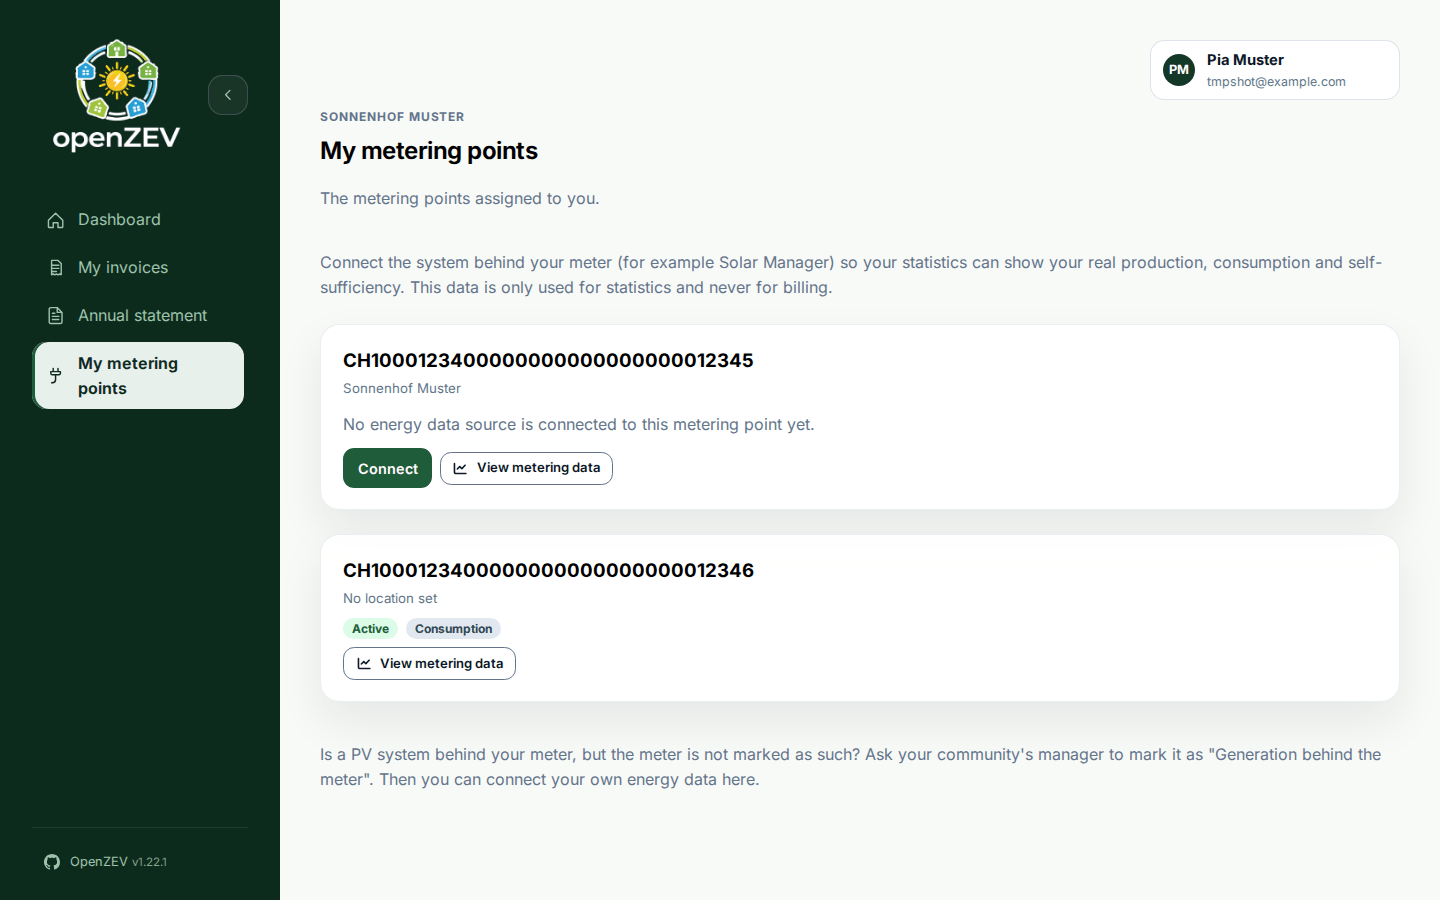
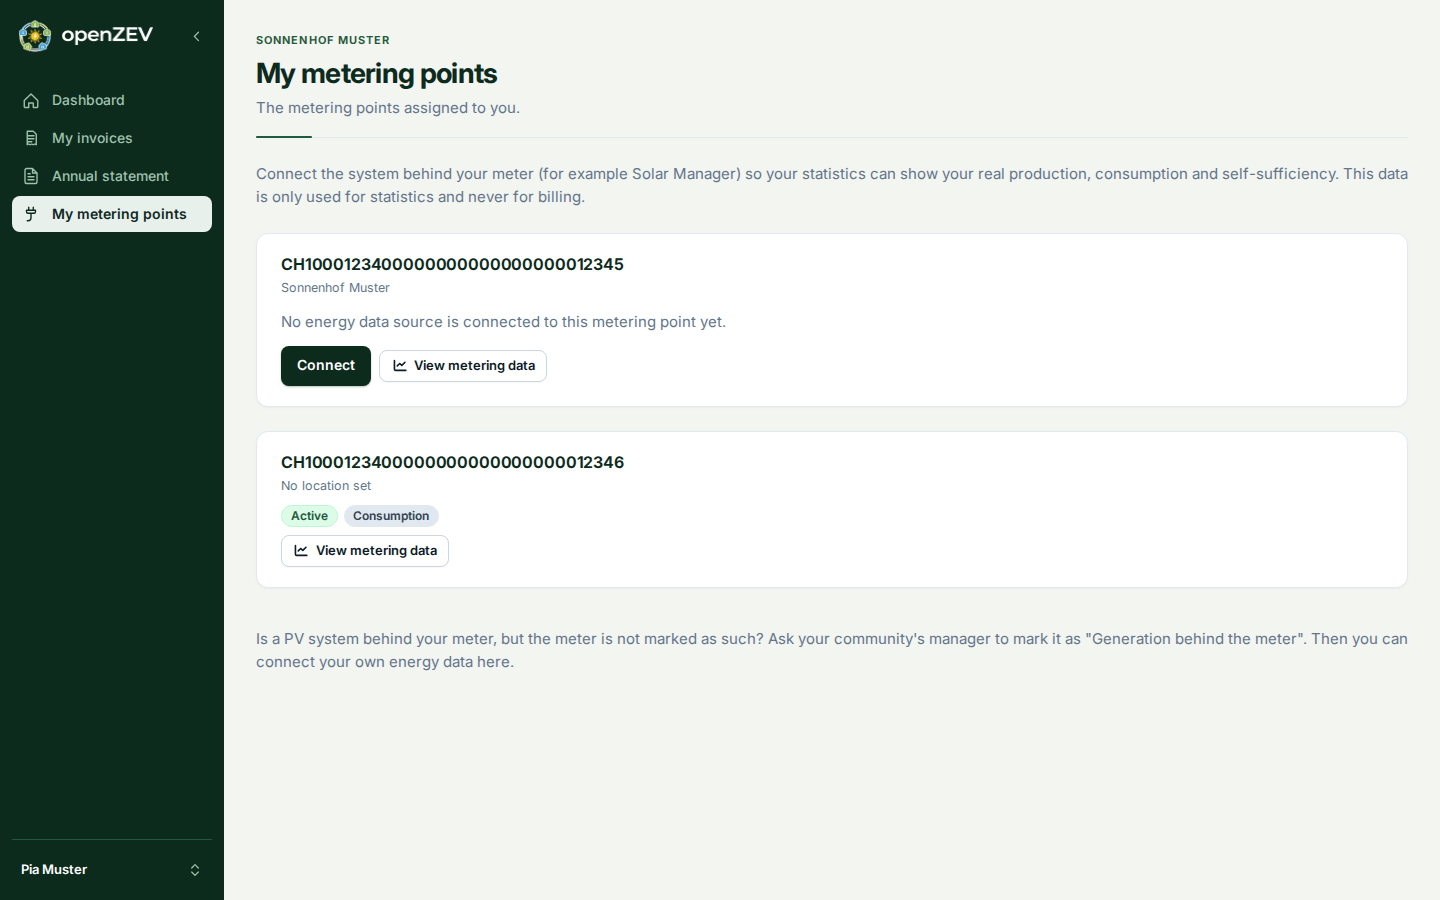
fix(energy-data): adapt to the layout redesign and the new ADR 0032
The redesigned Layout no longer reads the selected community, so the
"My metering points" entry for a manager who holds a flagged meter takes
it from the optional managed-ZEV context. Main now has an ADR 0032, so
the energy data flag ADR becomes 0033. The two user-guide screenshots are
recaptured in the redesigned UI.

Refs #944

diff --git a/frontend/src/components/Layout.tsx b/frontend/src/components/Layout.tsx
@@ -5,6 +5,7 @@ import { Link, NavLink, Outlet, matchPath, useLocation, useMatch, useNavigate } 
 import { useTranslation } from 'react-i18next'
 import { useAuth } from '../lib/auth'
 import { useCommunityAccess } from '../lib/communityAccess'
+import { useOptionalManagedZev } from '../lib/managedZev'
 import { useEnergyDataEligibility } from '../lib/supplementary'
 import { fetchFeasibilityCalculatorEnabled } from '../lib/api/feasibility'
 import { queryKeys } from '../lib/api/queryKeys'
@@ -53,6 +54,7 @@ export function Layout() {
     const { shellRole, isZevScope, isParticipantScope } = useCommunityAccess()
     // A manager or viewer who also holds a flagged meter themselves sets up their own energy data there.
     const energyData = useEnergyDataEligibility()
+    const selectedZevId = useOptionalManagedZev()?.selectedZevId
     const holdsOwnFlaggedMeter = energyData.eligible.some((point) => point.zev === selectedZevId)
     // Query the flag only for accounts with community-wide access.
     const feasibilityEnabledQuery = useQuery({

diff --git a/backend/accounts/migrations/0023_featureflag_follows_default.py b/backend/accounts/migrations/0023_featureflag_follows_default.py
@@ -6,7 +6,7 @@ SUPPLEMENTARY_FLAG = "supplementary_energy_data_enabled"
 def untouched_supplementary_follows_default(apps, schema_editor):
     """A stored "off" on the energy data flag is the seeded default, not a decision.
 
-    The flag now defaults to on once ``INTEGRATION_ENCRYPTION_KEYS`` is configured (ADR 0032).
+    The flag now defaults to on once ``INTEGRATION_ENCRYPTION_KEYS`` is configured (ADR 0033).
     An existing "off" row cannot be told apart from an admin's own choice, and the flag shipped
     off, so it is treated as unchosen. A stored "on" stays a choice.
     """

diff --git a/backend/accounts/test_feature_flag_defaults.py b/backend/accounts/test_feature_flag_defaults.py
@@ -1,4 +1,4 @@
-"""A feature flag whose default follows the instance's configuration (ADR 0032).
+"""A feature flag whose default follows the instance's configuration (ADR 0033).
 
 The energy data flag is on once ``INTEGRATION_ENCRYPTION_KEYS`` is set, unless an admin has
 switched it off. "Not chosen yet" and "chosen off" must stay distinguishable.

diff --git a/docs/specs/2026-10-supplementary-energy-data.md b/docs/specs/2026-10-supplementary-energy-data.md
@@ -8,7 +8,7 @@
 - Created: 2026-10-08
 - Target Release: TBD
 - Related Issues: [#925](https://github.com/splattner/openzev/issues/925), [#944](https://github.com/splattner/openzev/issues/944) (discoverability, §14)
-- Related ADRs: [0030](../adr/0030-supplementary-energy-data-is-not-billing-input.md) (never billing input), [0031](../adr/0031-integration-credentials-encrypted-under-a-dedicated-key.md) (connector credentials), [0032](../adr/0032-energy-data-flag-follows-the-integration-key.md) (the flag follows the key); builds on [0013](../adr/0013-shared-allocation-service.md), [0021](../adr/0021-mfa-secret-encryption-key.md), [0024](../adr/0024-backup-encryption-key.md), [0026](../adr/0026-swiss-civil-time-for-billing.md), [0027](../adr/0027-per-zev-access-grants.md)
+- Related ADRs: [0030](../adr/0030-supplementary-energy-data-is-not-billing-input.md) (never billing input), [0031](../adr/0031-integration-credentials-encrypted-under-a-dedicated-key.md) (connector credentials), [0033](../adr/0033-energy-data-flag-follows-the-integration-key.md) (the flag follows the key); builds on [0013](../adr/0013-shared-allocation-service.md), [0021](../adr/0021-mfa-secret-encryption-key.md), [0024](../adr/0024-backup-encryption-key.md), [0026](../adr/0026-swiss-civil-time-for-billing.md), [0027](../adr/0027-per-zev-access-grants.md)
 - Related specs: [behind-the-meter generation](2026-09-behind-the-meter-generation.md) (the flag this feature hangs off)
 - Impacted Areas: backend | frontend | async jobs | docs
 
@@ -124,7 +124,7 @@ on Profile like any unknown tab.
 (`"supplementary_energy_data_enabled"`, registered with a description, env override
 `FEATURE_SUPPLEMENTARY_ENERGY_DATA_ENABLED`). Its default is computed: **on while
 `INTEGRATION_ENCRYPTION_KEYS` is configured, off otherwise**, until an admin chooses a value, after
-which the choice stands whatever the key (ADR 0032, §14). While off: source and ingest endpoints
+which the choice stands whatever the key (ADR 0033, §14). While off: source and ingest endpoints
 answer `404`, beat tasks skip, and every statistics surface behaves exactly as in 1.21.0
 (`gross_energy` is `null`). Existing data is kept, not deleted.
 
@@ -1128,7 +1128,7 @@ meter, set up the source in account settings, import). Decisions, and what each 
 2. **No notification after flagging.** Energy data is optional; nobody gets an email. The manager
    sees "No energy data source" on the meter (§7.2); the participant finds the option on their own
    page.
-3. **The platform flag follows the key** ([ADR 0032](../adr/0032-energy-data-flag-follows-the-integration-key.md)).
+3. **The platform flag follows the key** ([ADR 0033](../adr/0033-energy-data-flag-follows-the-integration-key.md)).
    `FeatureFlag` gains `follows_default` (bool, default `False`): set when a flag with a computed
    default (`FeatureFlag.register(..., dynamic_default=fn)`, listed in `DYNAMIC_DEFAULTS`) is
    seeded, cleared by `PATCH /auth/feature-flags/{id}/` as soon as the request carries `enabled`.

diff --git a/docs/specs/2026-03-admin-governance-and-settings.md b/docs/specs/2026-03-admin-governance-and-settings.md
@@ -498,7 +498,7 @@ link the invoice breakdown to `/admin/invoices` and email statistics to
 - **Features tab:**
     - Uses `fetchFeatureFlags` with query key `['feature-flags']`.
     - Displays the registered feature flags in a table with toggle switches.
-    - A flag whose row has `follows_default` (a flag with a computed default, such as `supplementary_energy_data_enabled`, until an admin chooses) shows its current effective value and a hint that it follows the instance's default; toggling it stores a choice (`follows_default` becomes `false`). Every flag reads as its effective value, so a flag whose `controlled_by_env` is true (a `FEATURE_<NAME>` variable is set) shows the variable's name and a disabled switch. A toggle also invalidates the system health and energy data queries. See [ADR 0032](../adr/0032-energy-data-flag-follows-the-integration-key.md).
+    - A flag whose row has `follows_default` (a flag with a computed default, such as `supplementary_energy_data_enabled`, until an admin chooses) shows its current effective value and a hint that it follows the instance's default; toggling it stores a choice (`follows_default` becomes `false`). Every flag reads as its effective value, so a flag whose `controlled_by_env` is true (a `FEATURE_<NAME>` variable is set) shows the variable's name and a disabled switch. A toggle also invalidates the system health and energy data queries. See [ADR 0033](../adr/0033-energy-data-flag-follows-the-integration-key.md).
     - Toggling uses `updateFeatureFlag` and invalidates `['feature-flags']` after success.
 - **OAuth tab:**
     - Uses `fetchOAuthProviderConfigs` with query key `['oauth-provider-configs']`.
